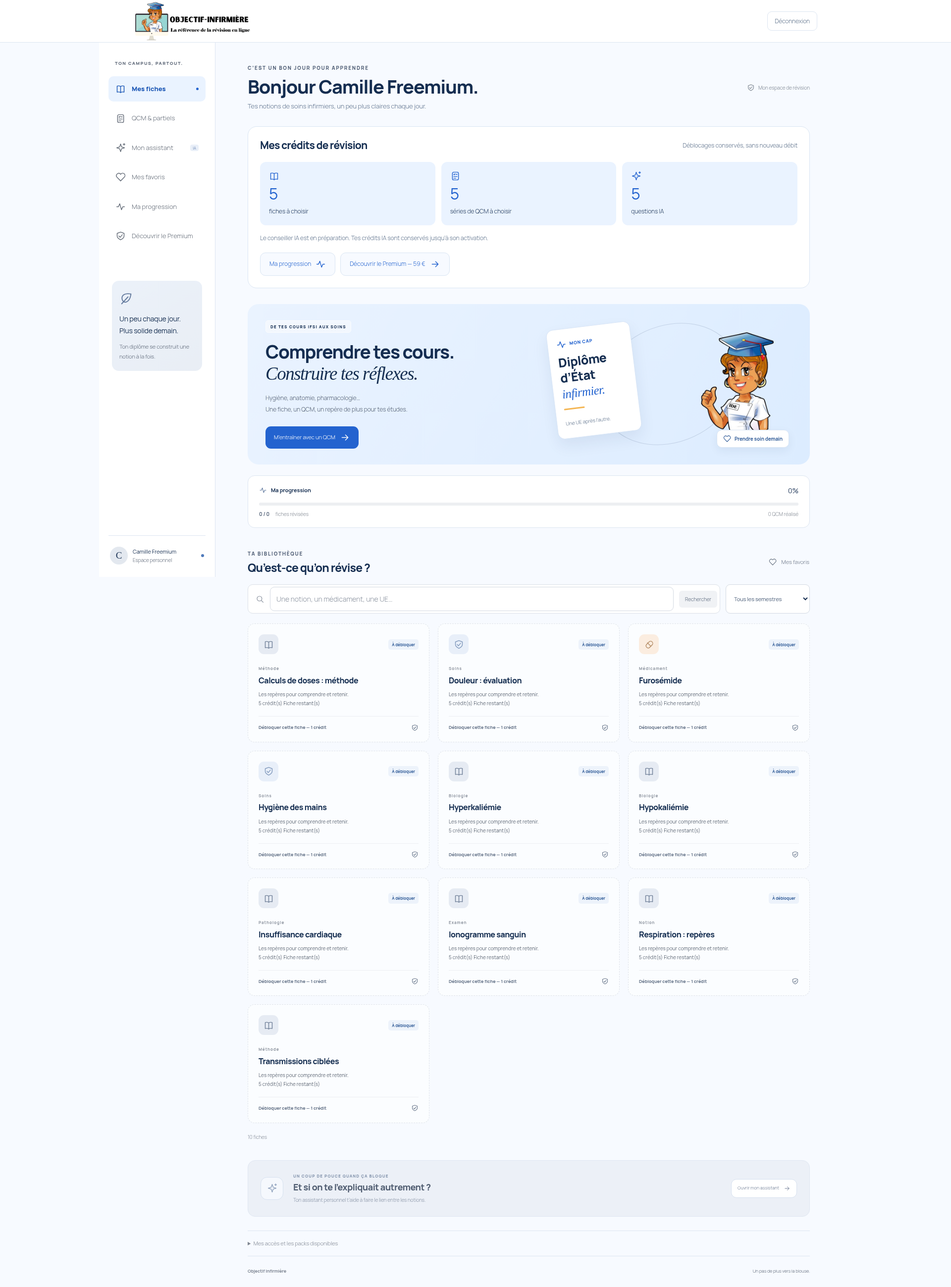
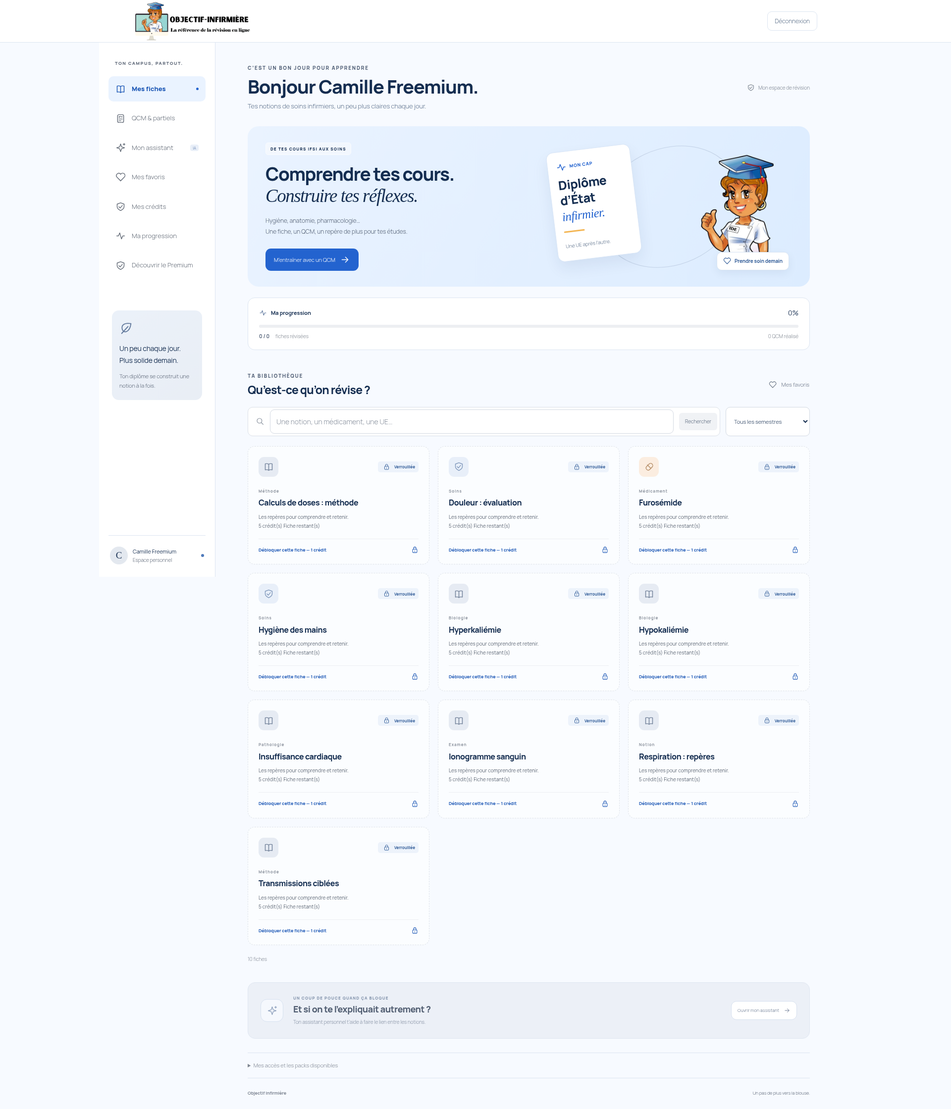
Clarify content unlocks and move wallet to dedicated credits tab

diff --git a/plugin/objectif-infirmiere/assets/app.js b/plugin/objectif-infirmiere/assets/app.js
@@ -15,6 +15,7 @@
     check: '<path d="m5 12 4 4L19 6"/>',
     clock: '<circle cx="12" cy="12" r="9"/><path d="M12 7v5l3 2"/>',
     pulse: '<path d="M3 12h4l3-7 4 14 3-7h4"/>',
+    lock: '<rect x="5" y="10" width="14" height="11" rx="2"/><path d="M8 10V7a4 4 0 0 1 8 0v3m-4 5v2"/>',
     shield: '<path d="m12 3 8 3v6c0 5-8 9-8 9s-8-4-8-9V6z"/><path d="m8 12 3 3 5-6"/>',
     pill: '<path d="M8 3a5 5 0 0 1 7 0l6 6a5 5 0 0 1-7 7l-6-6a5 5 0 0 1 0-7Z" transform="rotate(90 12 10)"/><path d="m8 8 8 8"/>',
     send: '<path d="m3 3 18 9-18 9 4-9zM7 12h14"/>',
@@ -56,7 +57,7 @@
   function shell() {
     if (document.querySelector('#oi-screen')) return;
     view.removeAttribute('aria-live');
-    view.innerHTML = `<div class="oi-workspace"><aside class="oi-sidebar"><div class="oi-sidebar-heading">TON CAMPUS, PARTOUT.</div><nav class="oi-main-nav" aria-label="Mon espace membre">${navButton('fiches','Mes fiches','book')}${navButton('qcm','QCM & partiels','quiz')}${navButton('ai','Mon assistant','spark')}${navButton('favorites','Mes favoris','heart')}${navButton('progress','Ma progression','pulse')}${navButton('premium','Découvrir le Premium','shield')}</nav><div class="oi-sidebar-note">${icon('leaf')}<strong>Un peu chaque jour.<br>Plus solide demain.</strong><p>Ton diplôme se construit une notion à la fois.</p></div><div class="oi-student"><span class="oi-avatar">${esc((OI.name || 'É').slice(0,1).toUpperCase())}</span><span><strong>${esc(OI.name)}</strong><small>Espace personnel</small></span><span class="oi-online-dot" title="Connecté"></span></div></aside><div id="oi-screen" class="oi-screen"><p id="oi-status" role="status">On prépare ton espace…</p></div></div>`;
+    view.innerHTML = `<div class="oi-workspace"><aside class="oi-sidebar"><div class="oi-sidebar-heading">TON CAMPUS, PARTOUT.</div><nav class="oi-main-nav" aria-label="Mon espace membre">${navButton('fiches','Mes fiches','book')}${navButton('qcm','QCM & partiels','quiz')}${navButton('ai','Mon assistant','spark')}${navButton('favorites','Mes favoris','heart')}${navButton('credits','Mes crédits','shield')}${navButton('progress','Ma progression','pulse')}${navButton('premium','Découvrir le Premium','shield')}</nav><div class="oi-sidebar-note">${icon('leaf')}<strong>Un peu chaque jour.<br>Plus solide demain.</strong><p>Ton diplôme se construit une notion à la fois.</p></div><div class="oi-student"><span class="oi-avatar">${esc((OI.name || 'É').slice(0,1).toUpperCase())}</span><span><strong>${esc(OI.name)}</strong><small>Espace personnel</small></span><span class="oi-online-dot" title="Connecté"></span></div></aside><div id="oi-screen" class="oi-screen"><p id="oi-status" role="status">On prépare ton espace…</p></div></div>`;
   }
   function setTab(tab) {
     currentTab = tab;
@@ -75,12 +76,12 @@
     const topic = subject(item), kind=quizMode?'QCM':'FICHE';
     const accessible=!!item.access?.[kind], available=Number(account?.balances?.[kind]||0);
     const action=accessible?`data-${quizMode?'quiz-fiche':'fiche'}="${Number(item.id)}"`:`data-unlock="${Number(item.id)}" data-kind="${kind}"`;
-    const label=accessible?(quizMode?'Commencer le QCM':item.state?.revised?'Révisée':'Ouvrir la fiche'):(available?`Débloquer ${quizMode?'cette série':'cette fiche'} — 1 crédit`:'Voir les options d’accès');
-    return `<button type="button" class="oi-card oi-fiche-card oi-tone-${topic.color} ${accessible?'is-unlocked':'is-locked'}" ${action}><span class="oi-card-top"><span class="oi-subject-icon">${icon(quizMode?'quiz':topic.icon)}</span><span class="oi-card-badge">${accessible?(account?.premium?'Inclus dans mon accès':'Débloquée'):'À débloquer'}</span></span><span class="oi-eyebrow">${esc(topic.name)}</span><h3>${esc(item.title)}</h3><span class="oi-card-description">${quizMode?`${Number(item.quiz_count)} question(s) · Correction expliquée`:'Les repères pour comprendre et retenir.'}${!accessible?`<br>${available} crédit(s) ${quizMode?'QCM':'Fiche'} restant(s)`:''}</span><span class="oi-card-bottom"><span>${label}</span>${icon(accessible?'arrow':'shield')}</span>${item.state?.favorite?'<span class="oi-card-favorite" aria-label="En favori">'+icon('heart')+'</span>':''}</button>`;
+    const label=accessible?(quizMode?'Commencer le QCM':item.state?.revised?'Révisée':'Ouvrir la fiche'):(available?`Débloquer ${quizMode?'cette série':'cette fiche'} — 1 crédit`:'Plus de crédits — voir le Premium');
+    return `<button type="button" class="oi-card oi-fiche-card oi-tone-${topic.color} ${accessible?'is-unlocked':'is-locked'}" ${action}><span class="oi-card-top"><span class="oi-subject-icon">${icon(quizMode?'quiz':topic.icon)}</span><span class="oi-card-badge">${accessible?(account?.administrator?'Accès administrateur':account?.premium?'Inclus dans mon accès':'Débloquée'):icon('lock')+' Verrouillée'}</span></span><span class="oi-eyebrow">${esc(topic.name)}</span><h3>${esc(item.title)}</h3><span class="oi-card-description">${quizMode?`${Number(item.quiz_count)} question(s) · Correction expliquée`:'Les repères pour comprendre et retenir.'}${!accessible?`<br>${available} crédit(s) ${quizMode?'QCM':'Fiche'} restant(s)`:''}</span><span class="oi-card-bottom"><span>${label}</span>${icon(accessible?'arrow':'lock')}</span>${item.state?.favorite?'<span class="oi-card-favorite" aria-label="En favori">'+icon('heart')+'</span>':''}</button>`;
   }
   function walletPanel() {
     if(!account)return '';
-    return `<section class="oi-wallet" aria-label="Mes crédits"><div class="oi-wallet-heading"><h2>${account.premium?'Mon accès Premium':'Mes crédits de révision'}</h2><span>${account.premium?'Paiement unique · Sans abonnement':'Déblocages conservés, sans nouveau débit'}</span></div><div class="oi-wallet-grid">${[['FICHE','fiches à choisir','book'],['QCM','séries de QCM à choisir','quiz'],['IA','questions IA','spark']].map(([kind,label,glyph])=>`<div>${icon(glyph)}<strong data-balance="${kind}">${account.premium&&kind!=='IA'?'Inclus':Number(account.balances[kind])}</strong><span>${account.premium&&kind!=='IA'?(kind==='FICHE'?'Fiches du pack':'QCM du pack'):label}</span></div>`).join('')}</div>${!account.ai_available?'<p class="oi-wallet-note">Le conseiller IA est en préparation. Tes crédits IA sont conservés jusqu’à son activation.</p>':''}<div class="oi-wallet-actions"><button type="button" data-tab="progress">Ma progression ${icon('pulse')}</button>${!account.premium&&currentTab!=='premium'?'<button type="button" data-tab="premium">Découvrir le Premium — 59 € '+icon('arrow')+'</button>':''}</div>${!account.verified?'<p>Confirme ton adresse pour recevoir tes crédits de bienvenue.</p><button type="button" data-resend>Recevoir mon lien de vérification</button>':''}</section>`;
+    return `<section class="oi-wallet" aria-label="Mes crédits"><div class="oi-wallet-heading"><h2>${account.premium?'Mon accès Premium':'Mes crédits de révision'}</h2><span>${account.premium?'Paiement unique · Sans abonnement':'Déblocages conservés, sans nouveau débit'}</span></div>${account.administrator?'<p class="oi-admin-access-note">'+icon('shield')+'<span><strong>Accès administrateur</strong> Tu peux consulter toutes les fiches et tous les QCM sans dépenser de crédit. Le parcours gratuit avec déblocage se teste avec un compte étudiant distinct.</span></p>':''}<div class="oi-wallet-grid">${[['FICHE','fiches à choisir','book'],['QCM','séries de QCM à choisir','quiz'],['IA','questions IA','spark']].map(([kind,label,glyph])=>`<div>${icon(glyph)}<strong data-balance="${kind}">${account.premium&&kind!=='IA'?'Inclus':Number(account.balances[kind])}</strong><span>${account.premium&&kind!=='IA'?(kind==='FICHE'?'Fiches du pack':'QCM du pack'):label}</span></div>`).join('')}</div>${!account.ai_available?'<p class="oi-wallet-note">Le conseiller IA est en préparation. Tes crédits IA sont conservés jusqu’à son activation.</p>':''}<div class="oi-wallet-actions"><button type="button" data-tab="progress">Ma progression ${icon('pulse')}</button>${!account.premium&&currentTab!=='premium'?'<button type="button" data-tab="premium">Découvrir le Premium — 59 € '+icon('arrow')+'</button>':''}</div>${!account.verified?'<p>Confirme ton adresse pour recevoir tes crédits de bienvenue.</p><button type="button" data-resend>Recevoir mon lien de vérification</button>':''}</section>`;
   }
   function verification() {
     screen().innerHTML=`<section class="oi-verification"><span class="oi-eyebrow">UNE DERNIÈRE ÉTAPE</span><h1>Vérifie ton adresse e-mail.</h1><p>${account.verification_email_sent?'Ouvre le message Objectif Infirmière reçu dans ta boîte mail, puis confirme ton adresse. Pense aussi aux indésirables.':'L’e-mail de confirmation n’a pas pu être envoyé. Tu peux demander un nouvel envoi ci-dessous.'}</p><p>Tu recevras ensuite 5 crédits Fiche, 5 crédits QCM et 5 crédits IA, une seule fois.</p><button type="button" data-resend>Renvoyer le lien de vérification</button><button type="button" data-refresh-account>J’ai confirmé mon adresse</button><p id="oi-status" role="status"></p></section>`;
@@ -94,11 +95,15 @@
     shell();setTab('premium');if(!await loadAccount())return;
     const offer=account.offer;
     if(!account.premium)api('events',{event:'premium_view'}).catch(()=>{});
-    screen().innerHTML=`<section class="oi-premium-page"><span class="oi-eyebrow">${account.premium?'MON ACCÈS':'PACK PREMIUM OBJECTIF INFIRMIÈRE'}</span><h1>${account.premium?'Ton Premium est actif.':'Toutes tes révisions.<br>Un seul paiement.'}</h1>${walletPanel()}${account.premium?'<p>Tes fiches et QCM du pack sont accessibles sans dépenser de crédits, sans expiration automatique en V1.</p>':`<div class="oi-premium-price"><strong>59 €</strong><span>Paiement unique · Aucun abonnement</span></div><ul><li>${Number(offer.fiches)} fiches publiées dans le pack</li><li>${Number(offer.qcm)} séries de QCM à recommencer</li><li>Favoris et progression conservés</li><li>100 crédits IA supplémentaires, non renouvelés automatiquement</li></ul><p>Les crédits IA gratuits restants sont conservés. Les contenus de démonstration ne remplacent pas tes cours ni les protocoles de soins.</p>${!account.ai_available?'<p>Le conseiller IA est encore en préparation : les crédits restent disponibles pour son activation.</p>':''}<button type="button" data-buy="${Number(offer.pack_id)}" ${!offer.available||!account.verified?'disabled':''}>Débloquer mon accès Premium — 59 €</button><p class="oi-muted">Paiement Stripe TEST uniquement. Prix et fiscalité à confirmer avant commercialisation.</p>${!offer.available?'<p>Le paiement de démonstration n’est pas encore configuré.</p>':''}`}<button type="button" data-tab="fiches">Explorer les fiches</button><p id="oi-status" role="status"></p></section>`;
+    screen().innerHTML=`<section class="oi-premium-page"><span class="oi-eyebrow">${account.premium?'MON ACCÈS':'PACK PREMIUM OBJECTIF INFIRMIÈRE'}</span><h1>${account.premium?'Ton Premium est actif.':'Toutes tes révisions.<br>Un seul paiement.'}</h1>${account.premium?'<p>Tes fiches et QCM du pack sont accessibles sans dépenser de crédits, sans expiration automatique en V1.</p>':`<div class="oi-premium-price"><strong>59 €</strong><span>Paiement unique · Aucun abonnement</span></div><ul><li>${Number(offer.fiches)} fiches publiées dans le pack</li><li>${Number(offer.qcm)} séries de QCM à recommencer</li><li>Favoris et progression conservés</li><li>100 crédits IA supplémentaires, non renouvelés automatiquement</li></ul><p>Les crédits IA gratuits restants sont conservés. Les contenus de démonstration ne remplacent pas tes cours ni les protocoles de soins.</p>${!account.ai_available?'<p>Le conseiller IA est encore en préparation : les crédits restent disponibles pour son activation.</p>':''}<button type="button" data-buy="${Number(offer.pack_id)}" ${!offer.available||!account.verified?'disabled':''}>Débloquer mon accès Premium — 59 €</button><p class="oi-muted">Paiement Stripe TEST uniquement. Prix et fiscalité à confirmer avant commercialisation.</p>${!offer.available?'<p>Le paiement de démonstration n’est pas encore configuré.</p>':''}`}<button type="button" data-tab="fiches">Explorer les fiches</button><p id="oi-status" role="status"></p></section>`;
+  }
+  async function credits() {
+    ++routeSequence;shell();setTab('credits');if(!await loadAccount())return;
+    screen().innerHTML=`<section class="oi-page-intro"><span class="oi-eyebrow">MON COMPTE</span><h1>Mes crédits.</h1><p>Retrouve tes soldes et les accès inclus dans ton compte.</p></section>${walletPanel()}<p id="oi-status" role="status"></p>`;
   }
   async function progression() {
     shell();setTab('progress');if(!await loadAccount())return;
-    screen().innerHTML=`<section class="oi-page-intro"><span class="oi-eyebrow">CHAQUE SÉANCE COMPTE</span><h1>Ma progression.</h1><p>Retrouve les fiches consultées, tes révisions et les séries travaillées.</p></section>${progress(account.progress)}${walletPanel()}<button type="button" data-tab="favorites">Retrouver mes favoris</button><p id="oi-status" role="status"></p>`;
+    screen().innerHTML=`<section class="oi-page-intro"><span class="oi-eyebrow">CHAQUE SÉANCE COMPTE</span><h1>Ma progression.</h1><p>Retrouve les fiches consultées, tes révisions et les séries travaillées.</p></section>${progress(account.progress)}<button type="button" data-tab="favorites">Retrouver mes favoris</button><p id="oi-status" role="status"></p>`;
   }
   function progress(p) {
     const total = Number(p?.total || 0);
@@ -135,9 +140,7 @@
     account=data.account;
     const quizMode = tab==='qcm';
     const intro = favoritesOnly ? `<div class="oi-page-intro"><span class="oi-eyebrow">TA SÉLECTION PERSONNELLE</span><h1>À garder sous la main.</h1><p>Les notions que tu veux retrouver en un instant.</p></div>` : quizMode ? `<div class="oi-page-intro"><span class="oi-eyebrow">PLACE À LA PRATIQUE</span><h1>Tu sais. Maintenant,<br><em>prouve-le-toi.</em></h1><p>Teste tes connaissances, comprends tes erreurs et avance vers tes partiels.</p></div>` : `<div class="oi-dashboard-intro"><div><span class="oi-eyebrow">C’EST UN BON JOUR POUR APPRENDRE</span><h1>Bonjour ${esc(OI.name)}.</h1><p>Tes notions de soins infirmiers, un peu plus claires chaque jour.</p></div><span class="oi-space-tag">${icon('shield')} Mon espace de révision</span></div><div class="oi-dashboard-hero"><div><span class="oi-pill-label">DE TES COURS IFSI AUX SOINS</span><h2>Comprendre tes cours.<br><em>Construire tes réflexes.</em></h2><p>Hygiène, anatomie, pharmacologie…<br>Une fiche, un QCM, un repère de plus pour tes études.</p><button type="button" data-tab="qcm">M’entraîner avec un QCM ${icon('arrow')}</button></div><div class="oi-hero-illustration" aria-hidden="true"><span class="oi-orbit oi-orbit-one"></span><div class="oi-nursing-note"><span>${icon('pulse')} MON CAP</span><strong>Diplôme<br>d’État<br><em>infirmier.</em></strong><span class="oi-nursing-note-rule"></span><small>Une UE après l’autre.</small></div><img class="oi-member-mascot" src="${esc(OI.brandUrl)}mascot.png" alt="" width="500" height="500"><span class="oi-nursing-badge">${icon('heart')} Prendre soin demain</span></div></div>${progress(data.progress)}`;
-    screen().innerHTML = `${intro}${walletPanel()}${quizMode?'<div class="oi-qcm-notice">'+icon('quiz')+'<div><strong>Le bon réflexe avant les partiels.</strong><span>Des QCM par sujet, à ton rythme, avec une correction expliquée après chaque série.</span></div></div>':''}<section class="oi-library" aria-labelledby="oi-library-title"><div class="oi-section-title"><div><span class="oi-eyebrow">${quizMode?'APPRENDRE EN S’ENTRAÎNANT':favoritesOnly?'LE MEILLEUR DE TES RÉVISIONS':'TA BIBLIOTHÈQUE'}</span><h2 id="oi-library-title">${quizMode?'Choisis ton prochain défi.':favoritesOnly?'Mes favoris':'Qu’est-ce qu’on révise ?'}</h2></div>${!favoritesOnly&&!quizMode?'<button type="button" class="oi-text-button" data-tab="favorites">'+icon('heart')+' Mes favoris</button>':''}</div>${searchForm(data,quizMode)}<p id="oi-status" role="status"></p><div id="oi-results" class="oi-grid">${resultCards(data,quizMode)}</div><div id="oi-pagination" class="oi-pagination"></div></section>${!quizMode&&!favoritesOnly&&!account.premium?`<section class="oi-ai-banner"><span class="oi-ai-banner-icon">${icon('spark')}</span><div><span class="oi-eyebrow">UN COUP DE POUCE QUAND ÇA BLOQUE</span><h2>Et si on te l’expliquait autrement ?</h2><p>Ton assistant personnel t’aide à faire le lien entre les notions.</p></div><button type="button" data-ai>Ouvrir mon assistant ${icon('arrow')}</button></section><details class="oi-access-details"><summary>Mes accès et les packs disponibles</summary><p class="oi-muted">${data.packs.map(p=>esc(p.title)).join(' · ') || 'Aucun pack actif pour le moment.'}</p><div id="oi-catalog"></div></details>`:''}<footer class="oi-member-footer"><span>Objectif Infirmière</span><span>Un pas de plus vers la blouse.</span></footer>`;
-    const hero=screen().querySelector('.oi-dashboard-hero');
-    if(hero)hero.before(screen().querySelector('.oi-wallet'));
+    screen().innerHTML = `${intro}${quizMode?'<div class="oi-qcm-notice">'+icon('quiz')+'<div><strong>Le bon réflexe avant les partiels.</strong><span>Des QCM par sujet, à ton rythme, avec une correction expliquée après chaque série.</span></div></div>':''}<section class="oi-library" aria-labelledby="oi-library-title"><div class="oi-section-title"><div><span class="oi-eyebrow">${quizMode?'APPRENDRE EN S’ENTRAÎNANT':favoritesOnly?'LE MEILLEUR DE TES RÉVISIONS':'TA BIBLIOTHÈQUE'}</span><h2 id="oi-library-title">${quizMode?'Choisis ton prochain défi.':favoritesOnly?'Mes favoris':'Qu’est-ce qu’on révise ?'}</h2></div>${!favoritesOnly&&!quizMode?'<button type="button" class="oi-text-button" data-tab="favorites">'+icon('heart')+' Mes favoris</button>':''}</div>${searchForm(data,quizMode)}<p id="oi-status" role="status"></p><div id="oi-results" class="oi-grid">${resultCards(data,quizMode)}</div><div id="oi-pagination" class="oi-pagination"></div></section>${!quizMode&&!favoritesOnly&&!account.premium?`<section class="oi-ai-banner"><span class="oi-ai-banner-icon">${icon('spark')}</span><div><span class="oi-eyebrow">UN COUP DE POUCE QUAND ÇA BLOQUE</span><h2>Et si on te l’expliquait autrement ?</h2><p>Ton assistant personnel t’aide à faire le lien entre les notions.</p></div><button type="button" data-ai>Ouvrir mon assistant ${icon('arrow')}</button></section><details class="oi-access-details"><summary>Mes accès et les packs disponibles</summary><p class="oi-muted">${data.packs.map(p=>esc(p.title)).join(' · ') || 'Aucun pack actif pour le moment.'}</p><div id="oi-catalog"></div></details>`:''}<footer class="oi-member-footer"><span>Objectif Infirmière</span><span>Un pas de plus vers la blouse.</span></footer>`;
     pagination(data);
     document.querySelector('#oi-search').addEventListener('submit', e=>{e.preventDefault();page=1;search().catch(error);});
     document.querySelector('#oi-semester').addEventListener('change', ()=>{page=1;search().catch(error);});
@@ -211,7 +214,7 @@
     setTab('ai');
     if(!await loadAccount())return;
     aiRequestId=null;
-    screen().innerHTML = `<nav class="oi-breadcrumb"><button type="button" data-home>${icon('back')} Mes révisions</button><span>Ton espace pour comprendre</span></nav><section class="oi-chat-page"><div class="oi-chat-orb">${icon('spark')}</div><span class="oi-eyebrow">TON ASSISTANT PERSONNEL SOIGNANT</span><h1>Une question.<br><em>Un nouveau déclic.</em></h1>${!account.ai_available?'<p class="oi-chat-availability">L’assistant est en préparation. Découvre son espace ; les réponses seront disponibles prochainement.</p>':''}${walletPanel()}${Number(account.balances.IA)===0?`<p class="oi-credit-empty">${account.premium?'Tes crédits IA sont épuisés. Tes fiches et QCM restent accessibles.':'Tes questions gratuites sont épuisées. Le Premium inclut 100 questions supplémentaires.'}</p>`:''}<p class="oi-chat-intro">Reformuler une notion, relier deux idées, préparer une révision.<br>Tu n’as plus à rester bloqué devant ton cours.</p>${context?`<div class="oi-chat-context">${icon('book')} On parle de : <strong>${esc(context.title)}</strong></div>`:''}<div class="oi-chat-suggestions"><button type="button" data-prompt="Explique-moi simplement le rôle de la surveillance infirmière.">${icon('book')} Comprendre une notion ${icon('arrow')}</button><button type="button" data-prompt="Aide-moi à réviser les points clés de la surveillance des traitements.">${icon('quiz')} Préparer ma révision ${icon('arrow')}</button><button type="button" data-prompt="Comment relier les effets d’un médicament à sa surveillance infirmière ?">${icon('pulse')} Faire le lien avec les soins ${icon('arrow')}</button></div><div id="oi-answer" class="oi-conversation" aria-live="polite"></div><form id="oi-chat" class="oi-chat-composer"><label for="oi-question">Qu’est-ce que tu veux éclaircir ?</label><textarea id="oi-question" required maxlength="2000" rows="3" placeholder="Explique-moi cette notion simplement…"></textarea><div><span>Un assistant pour apprendre, à ton rythme.</span><button type="submit" ${!account.ai_available||Number(account.balances.IA)===0?'disabled':''}>Poser ma question ${icon('send')}</button></div></form><p id="oi-status" role="status"></p><p class="oi-ai-privacy">${icon('shield')} Assistant automatisé dédié aux révisions. Aucune donnée de patient. Les réponses sont à vérifier avec tes cours et les protocoles ; elles ne remplacent pas un avis professionnel.</p></section>`;
+    screen().innerHTML = `<nav class="oi-breadcrumb"><button type="button" data-home>${icon('back')} Mes révisions</button><span>Ton espace pour comprendre</span></nav><section class="oi-chat-page"><div class="oi-chat-orb">${icon('spark')}</div><span class="oi-eyebrow">TON ASSISTANT PERSONNEL SOIGNANT</span><h1>Une question.<br><em>Un nouveau déclic.</em></h1>${!account.ai_available?'<p class="oi-chat-availability">L’assistant est en préparation. Découvre son espace ; les réponses seront disponibles prochainement.</p>':''}${Number(account.balances.IA)===0?`<p class="oi-credit-empty">${account.premium?'Tes crédits IA sont épuisés. Tes fiches et QCM restent accessibles.':'Tes questions gratuites sont épuisées. Le Premium inclut 100 questions supplémentaires.'}</p>`:''}<p class="oi-chat-intro">Reformuler une notion, relier deux idées, préparer une révision.<br>Tu n’as plus à rester bloqué devant ton cours.</p>${context?`<div class="oi-chat-context">${icon('book')} On parle de : <strong>${esc(context.title)}</strong></div>`:''}<div class="oi-chat-suggestions"><button type="button" data-prompt="Explique-moi simplement le rôle de la surveillance infirmière.">${icon('book')} Comprendre une notion ${icon('arrow')}</button><button type="button" data-prompt="Aide-moi à réviser les points clés de la surveillance des traitements.">${icon('quiz')} Préparer ma révision ${icon('arrow')}</button><button type="button" data-prompt="Comment relier les effets d’un médicament à sa surveillance infirmière ?">${icon('pulse')} Faire le lien avec les soins ${icon('arrow')}</button></div><div id="oi-answer" class="oi-conversation" aria-live="polite"></div><p class="oi-question-balance"><strong data-balance="IA">${Number(account.balances.IA)}</strong> question(s) IA disponible(s) · 1 crédit par réponse réussie</p><form id="oi-chat" class="oi-chat-composer"><label for="oi-question">Qu’est-ce que tu veux éclaircir ?</label><textarea id="oi-question" required maxlength="2000" rows="3" placeholder="Explique-moi cette notion simplement…"></textarea><div><span>Un assistant pour apprendre, à ton rythme.</span><button type="submit" ${!account.ai_available||Number(account.balances.IA)===0?'disabled':''}>Poser ma question ${icon('send')}</button></div></form><p id="oi-status" role="status"></p><p class="oi-ai-privacy">${icon('shield')} Assistant automatisé dédié aux révisions. Aucune donnée de patient. Les réponses sont à vérifier avec tes cours et les protocoles ; elles ne remplacent pas un avis professionnel.</p></section>`;
     document.querySelector('#oi-chat').addEventListener('submit', async e=>{
       e.preventDefault();
       const button=e.target.querySelector('button[type=submit]');
@@ -238,7 +241,7 @@
     const b=e.target.closest('button');
     if (!b || !b.closest('.oi-app')) return;
     try {
-      if (b.dataset.tab) {if(b.dataset.tab==='ai') await chat(false);else if(b.dataset.tab==='premium')await premium();else if(b.dataset.tab==='progress')await progression();else await dashboard(b.dataset.tab);}
+      if (b.dataset.tab) {if(b.dataset.tab==='ai') await chat(false);else if(b.dataset.tab==='premium')await premium();else if(b.dataset.tab==='progress')await progression();else if(b.dataset.tab==='credits')await credits();else await dashboard(b.dataset.tab);}
       if(b.hasAttribute('data-refresh-account'))await dashboard();
       if(b.hasAttribute('data-resend')){b.disabled=true;try{await api('verify/resend',{});status('Un nouveau lien a été envoyé. Vérifie ta boîte mail et les indésirables.');}finally{b.disabled=false;}}
       if(b.dataset.unlock){
@@ -292,6 +295,6 @@
     }
     banner.textContent='La confirmation du paiement prend un peu de temps. Actualise ton espace dans quelques instants avant de tenter un nouvel achat.';
   }
-  if (view && OI.loggedIn) (new URLSearchParams(location.search).get('view')==='premium'?premium():dashboard()).then(paymentReturn).catch(error);
+  if (view && OI.loggedIn) (new URLSearchParams(location.search).get('view')==='premium'?premium():new URLSearchParams(location.search).get('view')==='credits'?credits():dashboard()).then(paymentReturn).catch(error);
   else if(publicCatalog) showCatalog(publicCatalog).catch(error);
 })();

diff --git a/tests/browser/freemium.spec.js b/tests/browser/freemium.spec.js
@@ -1,4 +1,10 @@
 const {test,expect}=require('@playwright/test');const fs=require('node:fs');const {confirmEmail}=require('./mail-helper');
+async function balance(page,kind,value,tab='fiches'){
+ await page.locator('.oi-main-nav [data-tab=credits]').click();
+ await expect(page.locator(`[data-balance=${kind}]`)).toHaveText(value);
+ await page.locator(`.oi-main-nav [data-tab=${tab}]`).click();
+ await expect(page.locator('.oi-wallet')).toHaveCount(0);
+}
 test('freemium : vérifier l’e-mail, choisir fiches et QCM, conserver crédits et accès',async({page})=>{
  // Full registration, mail confirmation and two credit-backed paths include multiple page loads.
  test.setTimeout(90000);
@@ -9,16 +15,22 @@ test('freemium : vérifier l’e-mail, choisir fiches et QCM, conserver crédits
  await expect(page.getByRole('heading',{name:'Vérifie ton adresse e-mail.'})).toBeVisible();
  const nonce=await page.evaluate(()=>OI.nonce);let response=await page.request.get('/?rest_route=/oi/v1/fiches',{headers:{'X-WP-Nonce':nonce}});expect(response.status()).toBe(403);
  const verifyUrl=await confirmEmail(page,email);
+ await expect(page.locator('.oi-wallet')).toHaveCount(0);
+ await page.locator('.oi-main-nav [data-tab=credits]').click();
  await expect(page.locator('[data-balance=FICHE]')).toHaveText('5');await expect(page.locator('[data-balance=QCM]')).toHaveText('5');await expect(page.locator('[data-balance=IA]')).toHaveText('5');
+ await page.locator('.oi-main-nav [data-tab=fiches]').click();
+ await expect(page.locator('#oi-results .is-locked').first()).toContainText('Verrouillée');
+ await expect(page.locator('#oi-results .is-locked .oi-card-badge svg').first()).toBeVisible();
  await page.screenshot({path:`.runtime/freemium-dashboard-${test.info().project.name}.png`,fullPage:true});
- await page.goto(verifyUrl);await page.getByRole('button',{name:'Confirmer mon adresse',exact:true}).click();await expect(page.locator('[data-balance=FICHE]')).toHaveText('5');
- const first=page.locator('#oi-results [data-unlock][data-kind=FICHE]').first();const id=await first.getAttribute('data-unlock');await first.click();await expect(page.locator('.oi-content')).toBeVisible();await expect(page.locator('#oi-quiz-form')).toHaveCount(0);await page.getByRole('button',{name:'Mes révisions',exact:false}).click();await expect(page.locator('[data-balance=FICHE]')).toHaveText('4');
- await page.locator(`#oi-results [data-fiche="${id}"]`).click();await page.getByRole('button',{name:'Mes révisions',exact:false}).click();await expect(page.locator('[data-balance=FICHE]')).toHaveText('4');
+ await page.goto(verifyUrl);await page.getByRole('button',{name:'Confirmer mon adresse',exact:true}).click();await balance(page,'FICHE','5');
+ const first=page.locator('#oi-results [data-unlock][data-kind=FICHE]').first();const id=await first.getAttribute('data-unlock');await first.click();await expect(page.locator('.oi-content')).toBeVisible();await expect(page.locator('#oi-quiz-form')).toHaveCount(0);await page.getByRole('button',{name:'Mes révisions',exact:false}).click();await balance(page,'FICHE','4');
+ await page.locator(`#oi-results [data-fiche="${id}"]`).click();await page.getByRole('button',{name:'Mes révisions',exact:false}).click();await balance(page,'FICHE','4');
  await page.locator('.oi-main-nav [data-tab=qcm]').click();await page.locator('#oi-results [data-unlock][data-kind=QCM]').first().click();await expect(page.locator('#oi-quiz-form')).toBeVisible();await expect(page.locator('.oi-content')).toHaveCount(0);await page.locator('#oi-quiz-form input[value="0"]').check();await page.getByRole('button',{name:'Voir ma correction'}).click();await expect(page.locator('#oi-quiz-result')).not.toBeEmpty();
- await page.getByRole('button',{name:'Tous les QCM',exact:false}).click();await expect(page.locator('[data-balance=QCM]')).toHaveText('4');
- await page.locator('#oi-results [data-quiz-fiche]').first().click();await page.getByRole('button',{name:'Tous les QCM',exact:false}).click();await expect(page.locator('[data-balance=QCM]')).toHaveText('4');
+ await page.getByRole('button',{name:'Tous les QCM',exact:false}).click();await balance(page,'QCM','4','qcm');
+ await page.locator('#oi-results [data-quiz-fiche]').first().click();await page.getByRole('button',{name:'Tous les QCM',exact:false}).click();await balance(page,'QCM','4','qcm');
  await page.locator('.oi-main-nav [data-tab=ai]').click();await expect(page.locator('[data-balance=IA]')).toHaveText('5');await expect(page.locator('.oi-chat-availability')).toBeVisible();await expect(page.getByRole('button',{name:'Poser ma question',exact:true})).toBeDisabled();
- await page.locator('.oi-wallet-actions [data-tab=premium]').click();await expect(page.locator('.oi-premium-price')).toContainText('59 €');await expect(page.locator('.oi-premium-page')).toContainText('100 crédits IA supplémentaires');
+ await expect(page.locator('.oi-wallet')).toHaveCount(0);
+ await page.locator('.oi-main-nav [data-tab=credits]').click();await page.locator('.oi-wallet-actions [data-tab=premium]').click();await expect(page.locator('.oi-wallet')).toHaveCount(0);await expect(page.locator('.oi-premium-price')).toContainText('59 €');await expect(page.locator('.oi-premium-page')).toContainText('100 crédits IA supplémentaires');
  await page.screenshot({path:`.runtime/freemium-premium-${test.info().project.name}.png`,fullPage:true});
  expect(await page.evaluate(()=>document.documentElement.scrollWidth<=innerWidth+1)).toBeTruthy();
 });

diff --git a/tests/browser/premium.spec.js b/tests/browser/premium.spec.js
@@ -5,14 +5,15 @@ test('retour de paiement : attendre le webhook, afficher le Premium et préserve
  test.skip(!['desktop','iPhone'].includes(test.info().project.name),'Activation sur ordinateur et téléphone.');test.setTimeout(90000);
  const user=credentials.projects[test.info().project.name];
  const fixture=action=>run('scripts/dc.sh',['wp','eval-file','/tests/browser-premium.php',String(user.id),action],{timeout:60000});
- await page.goto('/connexion/');await page.locator('#user_login').fill(user.login);await page.locator('#user_pass').fill(user.password);await page.locator('#wp-submit').click();await expect(page.locator('.oi-wallet')).toBeVisible();
+ await page.goto('/connexion/');await page.locator('#user_login').fill(user.login);await page.locator('#user_pass').fill(user.password);await page.locator('#wp-submit').click();await expect(page.locator('#oi-results .oi-card')).toHaveCount(10);await expect(page.locator('.oi-wallet')).toHaveCount(0);
  const nonce=await page.evaluate(()=>OI.nonce);const before=await(await page.request.get('/?rest_route=/oi/v1/account',{headers:{'X-WP-Nonce':nonce}})).json();expect(before.premium).toBe(false);
  try{
-  await page.goto('/espace-revision/?oi_payment=received');await expect(page.locator('.oi-payment-notice')).toContainText('attendons');await expect(page.locator('[data-balance=FICHE]')).toHaveText('5');
+  await page.goto('/espace-revision/?oi_payment=received');await expect(page.locator('.oi-payment-notice')).toContainText('attendons');expect(before.balances.FICHE).toBe(5);
   await fixture('grant');
   await expect(page.locator('.oi-payment-notice')).toContainText('Premium est actif',{timeout:20000});
+  await expect(page.locator('#oi-results [data-unlock]')).toHaveCount(0);await page.locator('.oi-main-nav [data-tab=credits]').click();
   await expect(page.locator('[data-balance=FICHE]')).toHaveText('Inclus');await expect(page.locator('[data-balance=QCM]')).toHaveText('Inclus');await expect(page.locator('[data-balance=IA]')).toHaveText('105');
-  await expect(page.locator('.oi-main-nav [data-tab=premium]')).toBeHidden();await expect(page.locator('.oi-wallet-actions [data-tab=premium]')).toHaveCount(0);await expect(page.locator('#oi-results [data-unlock]')).toHaveCount(0);
+  await expect(page.locator('.oi-main-nav [data-tab=premium]')).toBeHidden();await expect(page.locator('.oi-wallet-actions [data-tab=premium]')).toHaveCount(0);
   const after=await(await page.request.get('/?rest_route=/oi/v1/account',{headers:{'X-WP-Nonce':nonce}})).json();expect(after.progress).toEqual(before.progress);
   await page.screenshot({path:`.runtime/freemium-active-${test.info().project.name}.png`,fullPage:true});
  }finally{await fixture('cleanup');}

diff --git a/plugin/objectif-infirmiere/assets/app.css b/plugin/objectif-infirmiere/assets/app.css
@@ -314,7 +314,7 @@
 .oi-workspace{display:block}
 .oi-sidebar{position:static;padding:0;height:0;border:0;background:none;overflow:visible}
 .oi-sidebar-heading,.oi-sidebar-note,.oi-student{display:none}
-.oi-main-nav{position:fixed;bottom:0;left:0;right:0;z-index:50;background:#fffffff5;backdrop-filter:blur(16px);border-top:1px solid #d8dee6;display:grid;grid-template-columns:repeat(4,minmax(0,1fr));gap:0;padding:8px 8px calc(8px + env(safe-area-inset-bottom));box-shadow:0 -5px 30px #16294505}
+.oi-main-nav{position:fixed;bottom:0;left:0;right:0;z-index:50;background:#fffffff5;backdrop-filter:blur(16px);border-top:1px solid #d8dee6;display:grid;grid-template-columns:repeat(5,minmax(0,1fr));gap:0;padding:8px 8px calc(8px + env(safe-area-inset-bottom));box-shadow:0 -5px 30px #16294505}
 .oi-app .oi-main-nav button{flex-direction:column;justify-content:center;text-align:center;gap:4px;font-size:9px;padding:9px 3px;min-height:56px;border-radius:9px;line-height:1.5}
 .oi-main-nav .oi-icon{width:21px;height:21px}
 .oi-main-nav .oi-nav-tag,.oi-main-nav button[aria-current=page]:after{display:none}
@@ -541,3 +541,8 @@
 @media(max-width:760px){.oi-main-nav [data-tab=progress],.oi-main-nav [data-tab=premium]{display:none!important}.oi-wallet{padding:19px}.oi-wallet-grid{gap:8px}.oi-wallet-grid>div{padding:13px 10px}.oi-wallet-grid strong{font-size:27px}.oi-wallet-grid span{font-size:11px;line-height:1.6}.oi-wallet-heading h2{font-size:19px}.oi-verification{padding:24px}.oi-premium-price strong{font-size:54px}.oi-wallet-actions{flex-direction:column}.oi-wallet-actions button{width:100%}}
 
 .oi-payment-notice{padding:18px 24px;border:1px solid #b8d1f5;border-radius:16px;background:#edf5ff;color:#18395d;line-height:1.6;margin:0 0 24px;}
+
+.oi-fiche-card.is-locked .oi-card-badge{display:inline-flex;align-items:center;gap:5px}.oi-fiche-card.is-locked .oi-card-badge .oi-icon{width:14px;height:14px;flex-shrink:0}.oi-fiche-card.is-locked .oi-card-bottom{color:#1854b4;font-weight:700}.oi-admin-access-note{display:flex;gap:10px;padding:14px;border-radius:12px;background:#edf5ff;color:#29466b;font-size:13px;line-height:1.65}.oi-admin-access-note>.oi-icon{flex-shrink:0;margin-top:3px}.oi-admin-access-note strong{display:block}
+
+.oi-question-balance{font-size:13px;color:#516581;line-height:1.6;margin:20px 0 10px}.oi-question-balance strong{color:#1854b4}
+.oi-fiche-card.is-locked .oi-card-badge{white-space:nowrap;max-width:none;overflow-wrap:normal}

diff --git a/plugin/objectif-infirmiere/includes/class-offer.php b/plugin/objectif-infirmiere/includes/class-offer.php
@@ -24,7 +24,7 @@ final class OI_Offer {
     public static function account(): array {
         $user=get_current_user_id();$verified=OI_Verification::verified($user);
         if($verified) OI_Credits::welcome($user);
-        return ['verified'=>$verified,'verification_email_sent'=>(bool)get_user_meta($user,'oi_email_sent',true),'verification_required'=>(bool)get_user_meta($user,'oi_email_pending',true),'premium'=>self::premium($user),'balances'=>OI_Credits::balances($user),'offer'=>self::public_offer(),'ai_available'=>(bool)(get_option('oi_ai_enabled',false)&&get_option('oi_vector_store')&&OI_Stripe::secret('OI_OPENAI_API_KEY')),'progress'=>OI_Revision::progress($user)];
+        return ['administrator'=>user_can($user,'manage_options'),'verified'=>$verified,'verification_email_sent'=>(bool)get_user_meta($user,'oi_email_sent',true),'verification_required'=>(bool)get_user_meta($user,'oi_email_pending',true),'premium'=>self::premium($user),'balances'=>OI_Credits::balances($user),'offer'=>self::public_offer(),'ai_available'=>(bool)(get_option('oi_ai_enabled',false)&&get_option('oi_vector_store')&&OI_Stripe::secret('OI_OPENAI_API_KEY')),'progress'=>OI_Revision::progress($user)];
     }
     public static function public_offer(): array {
         $ids=self::catalogue();$pack=self::pack();

diff --git a/plugin/objectif-infirmiere/objectif-infirmiere.php b/plugin/objectif-infirmiere/objectif-infirmiere.php
@@ -2,13 +2,13 @@
 /**
  * Plugin Name: Objectif Infirmière
  * Description: Application de révision et contenus premium pour étudiants infirmiers.
- * Version: 0.3.0-rc.1
+ * Version: 0.3.0-rc.2
  * Requires PHP: 8.3
  * Requires at least: 6.8
  * Text Domain: objectif-infirmiere
  */
 defined('ABSPATH') || exit;
-define('OI_VERSION', '0.3.0-rc.1');
+define('OI_VERSION', '0.3.0-rc.2');
 define('OI_DIR', plugin_dir_path(__FILE__));
 define('OI_URL', plugin_dir_url(__FILE__));
 require_once OI_DIR . 'includes/class-log.php';

diff --git a/docs/REVUE-FREEMIUM.md b/docs/REVUE-FREEMIUM.md
@@ -1,4 +1,4 @@
-# Revue Freemium / Premium — 0.3.0-rc.1
+# Revue Freemium / Premium — 0.3.0-rc.2
 
 Travail sur `feature/freemium-premium`. **Déployée pour revue sur https://app-dev.objectif-infirmiere.fr/ le 8 octobre 2026, après la nouvelle autorisation explicite du propriétaire.** Le cahier interdisait initialement la production ; cette dernière consigne prévaut. La version 0.2.2 reste la référence sur `reference/pre-freemium-2026-10-08`. Cette version de travail réutilise la palette bleue, le logo, les mascottes et les composants existants.
 
@@ -7,7 +7,7 @@ Travail sur `feature/freemium-premium`. **Déployée pour revue sur https://app-
 Captures du WordPress local avec comptes et contenus de démonstration :
 
 - [Accueil ordinateur](review-freemium/accueil-1440.png) et [accueil mobile](review-freemium/accueil-390.png).
-- [Espace gratuit ordinateur](review-freemium/espace-gratuit-desktop.png) et [compteurs sur mobile](review-freemium/espace-gratuit-mobile.png).
+- [Espace gratuit ordinateur](review-freemium/espace-gratuit-desktop.png) et [espace gratuit mobile](review-freemium/espace-gratuit-mobile.png).
 - [Offre Premium](review-freemium/offre-premium-mobile.png) et [espace après confirmation du webhook simulé](review-freemium/premium-actif-mobile.png).
 - [Administration des crédits et campagnes](review-freemium/administration.png).
 
@@ -17,8 +17,8 @@ La barre de navigation fixe peut apparaître au milieu d'une capture mobile de p
 
 1. L'accueil présente le compte gratuit, une démonstration, un comparatif et le Premium à 59 €, sans abonnement.
 2. L'inscription ouvre un écran de vérification. Un lien envoyé par e-mail demande une confirmation explicite ; le simple passage d'un scanner d'e-mail ne valide rien.
-3. Après confirmation, le tableau de bord affiche 5 crédits Fiche, 5 crédits QCM et 5 crédits IA. Reconnexion et confirmation répétée n'ajoutent aucun crédit.
-4. Le catalogue est visible ; ouvrir une fiche ou une série verrouillée débite son portefeuille respectif une seule fois. Relire et recommencer restent gratuits.
+3. Après confirmation, l’onglet « Mes crédits » affiche 5 crédits Fiche, 5 crédits QCM et 5 crédits IA. Les autres onglets ne répètent plus le bandeau. Reconnexion et confirmation répétée n'ajoutent aucun crédit.
+4. Le catalogue est visible ; les cartes verrouillées portent un cadenas et « Débloquer — 1 crédit ». Le premier déblocage débite son portefeuille respectif une seule fois. Relire et recommencer restent gratuits.
 5. Favoris et progression suivent les contenus débloqués. Le Premium couvre les fiches et QCM explicitement sélectionnés dans le pack.
 6. Seul un paiement de 59 € confirmé côté serveur active le Premium et ajoute 100 crédits IA une seule fois par compte. La page de retour attend cette confirmation ; son URL ne donne aucun droit.
 7. Le membre Premium ne voit plus les incitations à acheter l'offre qu'il possède.
@@ -49,7 +49,7 @@ python3 scripts/test-credit-races.py
 scripts/package.sh
 ```
 
-Les e-mails locaux sont capturés dans `.runtime/mail`, sans envoi externe. Ils contiennent des liens confidentiels : ne pas les publier. Les tests navigateur lisent uniquement leurs propres messages. Les comptes créés par les scénarios d’inscription sont supprimés ; quatre comptes locaux de navigateur sont conservés pour la revue et remplacés à la prochaine batterie. Le plugin installable exclut tous les scripts, tests, données locales et secrets. L'archive générée est `.runtime/objectif-infirmiere-0.3.0-rc.1.zip` ; elle n'est pas une autorisation de déploiement.
+Les e-mails locaux sont capturés dans `.runtime/mail`, sans envoi externe. Ils contiennent des liens confidentiels : ne pas les publier. Les tests navigateur lisent uniquement leurs propres messages. Les comptes créés par les scénarios d’inscription sont supprimés ; quatre comptes locaux de navigateur sont conservés pour la revue et remplacés à la prochaine batterie. Le plugin installable exclut tous les scripts, tests, données locales et secrets. L'archive générée est `.runtime/objectif-infirmiere-0.3.0-rc.2.zip` ; elle n'est pas une autorisation de déploiement.
 
 ## Services restant à valider
 

diff --git a/docs/DEPLOIEMENT-FREEMIUM.md b/docs/DEPLOIEMENT-FREEMIUM.md
@@ -28,3 +28,13 @@ Le site est consultable pour revue du nouveau modèle, pas ouvert à l'encaissem
 Les comptes existants conservent leurs droits ; un administrateur dispose des accès de contrôle. Pour examiner le comportement d'un nouvel étudiant, utiliser une inscription distincte et confirmer l'adresse.
 
 Un éventuel retour arrière doit privilégier la réinstallation du plugin 0.2.2 et les réglages enregistrés, sans restauration aveugle de la base qui pourrait effacer de nouvelles inscriptions. Les nouvelles tables peuvent rester en place, inactives sous l'ancienne version. Toute restauration de données doit tenir compte des écritures intervenues après la sauvegarde.
+
+## Ajustement 0.3.0-rc.2 — 8 octobre 2026
+
+Déployé sur le même domaine pour la revue demandée. Le portefeuille est déplacé dans l’onglet « Mes crédits », accessible aussi dans la navigation mobile. Il n’est plus répété dans les fiches, QCM, favoris, progression, assistant et Premium. Le solde IA reste affiché près du formulaire.
+
+Les contenus à débloquer portent un cadenas et un coût explicite de 1 crédit. Les administrateurs voient « Accès administrateur » : leurs droits de consultation ne consomment pas de crédits. Les règles de débit et les droits existants restent inchangés.
+
+Validation : quatre parcours navigateur Freemium/Premium passent sur ordinateur et iPhone ; le parcours iPhone est repassé après correction du badge mobile. Premier déblocage 5 → 4, relecture sans nouveau débit. Sur le site réel, absence du bandeau dans les six onglets, page Crédits et navigation sans débordement à 390 et 320 px vérifiées avec un administrateur temporaire. Les fichiers JS/CSS distants correspondent exactement aux fichiers locaux. Les comptes étudiants locaux de test sont nettoyés séparément.
+
[1 lines of base64/hex data omitted]

diff --git a/CHANGELOG.md b/CHANGELOG.md
@@ -1,5 +1,13 @@
 # Changelog
 
+## 0.3.0-rc.2 — Lisibilité des droits et navigation
+
+- Cadenas et mention « Verrouillée » sur les fiches et QCM à débloquer ; coût d'un crédit explicite.
+- Badge « Accès administrateur » pour éviter de confondre les droits de contrôle avec un déblocage gratuit.
+- Retrait du panneau de crédits en tête des onglets. Soldes regroupés dans « Mes crédits », accessible aussi dans la navigation mobile ; solde IA près du formulaire.
+- Droits existants conservés ; aucune modification des règles de débit.
+
+
 ## 0.3.0-rc.1 — 2026-10-08 — revue déployée sur OVH après autorisation explicite
 
 - Vérification e-mail et attribution unique de 5 crédits Fiche, 5 QCM, 5 IA.
